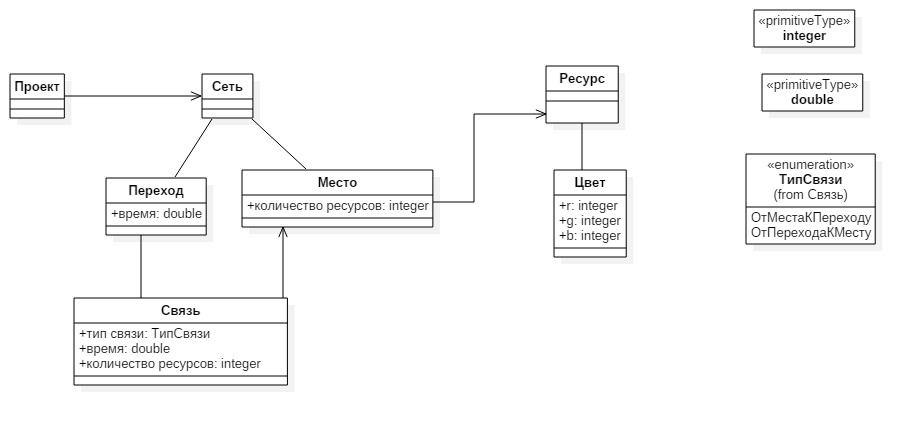
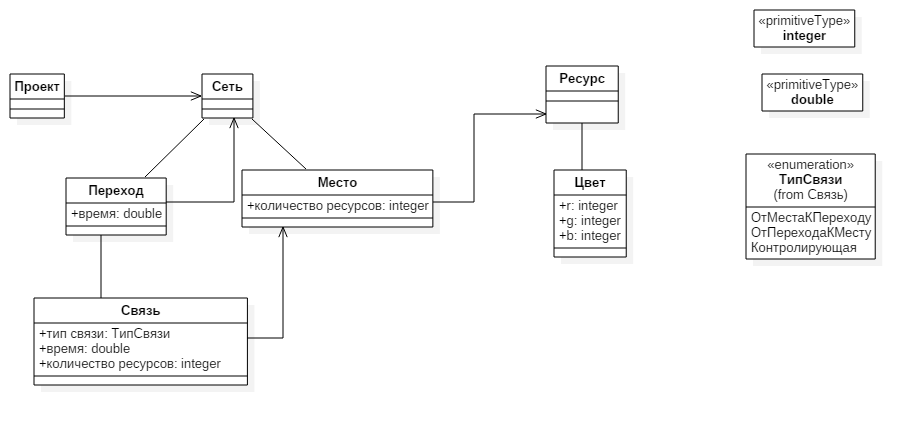
control connection added, some typos fixed

diff --git a/CourseWork/course.tex b/CourseWork/course.tex
@@ -10,7 +10,7 @@
 		Абстрактное синтаксическое дерево (англ. Abstract Syntax Tree) - логическое представление кода в памяти в виде дерева, который описывает иерархию узлов. Эти узлы имеют понятие отношений родитель-ребенок. Кроме того, два узла могут быть соединены друг с другом с явными ссылками, которые идут по всей иерархической структуре.
 		
 		\begin{figure}[ht] 
-			\center
+			\centering
 			\includegraphics [scale=0.27] {AST}
 			\caption{Абстрактное синтаксическое дерево} 
 			\label{img:AST}  
@@ -97,10 +97,10 @@
 		
 
 		
-\chapter{Проектирование}
+\chapter{Проектирование языка}
 	\section{Определение структуры языка}
 		
-		На основе описания ДВС составим модель концепций и их связей и представим её в виде АСД (рис. \ref{img:dcn-AST}). Здесь аналогично рис. \ref{img:AST}, связи без направления обозначают отношение родительских концепции к дочернией, где родитель находится выше дочерней концепции, а направленные связи обозначают ссылку на концепцию.
+		На основе описания ДВС составим модель концепций и их связей и представим её в виде АСД (рис. \ref{img:dcn-AST}). Здесь аналогично рис. \ref{img:AST}, связи без направления обозначают отношение родительских концепции к дочерней, где родитель находится выше дочерней концепции, а направленные связи обозначают ссылку на концепцию.
 		
 		\begin{figure}[ht] 
 			\center
@@ -109,7 +109,7 @@
 			\label{img:dcn-AST}  
 		\end{figure}
 	
-		Как видно из схемы, можно выделить 2 интерфейса. Первый содержит параметр -- время выполнения и называется "исполняемый". Второй содержит параметр -- количество ресурсов и называется "держатель ресурсов".
+		Как видно из схемы, можно выделить 2 интерфейса. Первый содержит параметр -- время выполнения и называется <<исполняемый>>. Второй содержит параметр -- количество ресурсов и называется <<держатель ресурсов>>.
 	
 		Реализацию концепций можно увидеть в прил. \ref{AppendixA}.
 		
@@ -119,11 +119,12 @@
 		\begin{enumerate}
 			\item \textbf{Цвет:} все компоненты цвета должны находиться в диапазоне от 0 до 255 в соответствии с цветовой моделью RGB.
 			\item \textbf{Ресурсы:} все ресурсы должны иметь уникальные имена внутри модели
-			\item \textbf{Держатель ресурсов:} количество ресусов должно быть неотрицательно.
-			\item \textbf{Исполняемый:} время испольнения должно быть неотрицательно.
+			\item \textbf{Держатель ресурсов:} количество ресурсов должно быть неотрицательно.
+			\item \textbf{Исполняемый:} время исполнения должно быть неотрицательно.
 			\item \textbf{Место:} имя места должно быть уникально внутри содержащей его сети.
 			\item \textbf{Сеть:} имя сети должно быть уникально внутри модели.
-			\item \textbf{Связь:} может связывать переход только с местом, описанным в той же сети.
+			\item \textbf{Связь:} может связывать переход только с местом, описанным в той же сети. Если тип связи <<Контролирующая>>, ресурс места должен быть \textit{Nat}.
+			\item \textbf{Переход:} если не связан с сетью-объектом, не может иметь контролирующих связей.
 		\end{enumerate}
 			
 		Реализация ограничений описана в прил. \ref{AppendixB}
@@ -136,7 +137,7 @@
 
 		\begin{figure}[th]
 			\centering
-			\includegraphics[width=0.7\linewidth]{images/test-project/project-tree}
+			\includegraphics[width=0.3\linewidth]{images/test-project/project-tree}
 			\caption{Файлы тестового проекта.}
 			\label{fig:project-tree}
 		\end{figure}
@@ -148,6 +149,7 @@
 		
 		\lstinputlisting[language={Java},caption={Ресурс Car},label={list:Car}]{listings/test/Car.txt}
 		\lstinputlisting[language={Java},caption={Ресурс Bike},label={list:Bike}]{listings/test/Bike.txt}
+		\lstinputlisting[language={Java},caption={Ресурс Nat},label={list:Nat}]{listings/test/Nat.txt}
 		
 		Представление распознаётся, как корректное.
 		
@@ -170,14 +172,37 @@
 				\caption{Возможные значения ссылки на место у связи.}
 				\label{fig:connection-test}
 			\end{figure}
-	
+			\FloatBarrier
+			
 			Также проверим корректность проверки времени. На рис. \ref{fig:time} приведены результаты.
 	
 			\begin{figure}[th]
 				\centering
-				\includegraphics[width=0.7\linewidth]{images/test-project/time}
-				\caption{}
+				\includegraphics[width=0.4\linewidth]{images/test-project/time}
+				\caption{Подсветка некорректного значения времени}
 				\label{fig:time}
+			\end{figure}
+			\FloatBarrier
+			\clearpage
+		
+			Убедимся, что нельзя задать контролирующую связь с местом, ресурс которого отличен от <<Nat>> (рис. \ref{fig:control-connection}).
+			
+			\begin{figure}[th]
+				\centering
+				\includegraphics[width=0.7\linewidth]{images/test-project/control-connection}
+				\caption{Контролирующая связь, связанная с местом, тип которого отличен от <<Nat>>}
+				\label{fig:control-connection}
+			\end{figure}
+			\FloatBarrier
+			\clearpage
+		
+			\subsection{Некорректная реализация перехода}
+			Удостоверимся, что нельзя задать контролирующую связь для перехода, не связанного с сетью-объектом (рис. \ref{fig:control-without-net}).
+			\begin{figure}[th]
+				\centering
+				\includegraphics[width=0.7\linewidth]{images/test-project/control-without-net}
+				\caption{Переход, не связанный с сетью-объектом, но имеющий контролирующий переход.}
+				\label{fig:control-without-net}
 			\end{figure}
 		
 	

diff --git a/CourseWork/theorical_introduction.tex b/CourseWork/theorical_introduction.tex
@@ -1,8 +1,7 @@
 \section{Описание динамических вычислительных сетей}
   \subsection{Сети Петри}
   
-	  Формально сеть Петри определена в~\cite{piterson} и представляет собой двудольный граф с двумя родами вершин: одни вершины называются позициями, другие
-	  называются переходами. 
+	  Формально сеть Петри определена в~\cite{piterson} и представляет собой двудольный граф с двумя родами вершин: одни вершины называются позициями, другие называются переходами. 
 	  Построение моделей систем в виде сетей Петри заключается в следующем:
 	  \begin{enumerate}
 	  	\item 	Моделируемые процессы описываются множеством событий (действий) и условий определяющих возможность наступления этих событий, а также причинно-следственными отношениями, устанавливаемыми на множестве пар "события-условия".
@@ -32,11 +31,11 @@
 	  		\label{img:petri-net}
 	  	\end{figure}
 	  
-	  Сетью Петри принято называть тройку $<G, m_0,\rho>$  , где  $G\equiv<P,T,I,O>$ "--- граф сети Петри, $P$   "--- конечное множество позиций (или мест) сети, $T$ "--- конечное множество переходов сети, $P \cap T = \varnothing$. $I,O:T\rightarrow P^{()}$  "--- функции, задающие комплекты входных и, соответственно, выходных позиций переходов сети (здесь $P^{()}$  "--- множество всевозможных конечных комплектов элементов мно-жества $P$ ). $M \cong P^{()}$ "--- множество всевозможных состояний сети (маркировок).  $m_0 \in M$ "--- начальная маркировка сети, задающая начальное состояние сети, $\rho:T\rightarrow C$ "--- функция раскраски, возможно частичная, где $C$  "--- множество красок.
+	  Сетью Петри принято называть тройку $<G, m_0,\rho>$  , где  $G\equiv<P,T,I,O>$ "--- граф сети Петри, $P$   "--- конечное множество позиций (или мест) сети, $T$ "--- конечное множество переходов сети, $P \cap T = \varnothing$. $I,O:T\rightarrow P^{()}$  "--- функции, задающие комплекты входных и, соответственно, выходных позиций переходов сети (здесь $P^{()}$  "--- множество всевозможных конечных комплектов элементов множества $P$ ). $M \cong P^{()}$ "--- множество всевозможных состояний сети (маркировок).  $m_0 \in M$ "--- начальная маркировка сети, задающая начальное состояние сети, $\rho:T\rightarrow C$ "--- функция раскраски, возможно частичная, где $C$  "--- множество красок.
 	  
 	  Сеть называется ограниченной, если $ (\forall p \in P) (\exists k \in \textit{nat}) (\forall m \in \mu_0) (m(p) \leq k)$, то есть множество достижимых в сети маркировок конечно.
 	  
-	Ограниченная сеть Петри $S$ на множестве позиций $P$, $|P|\in \aleph_0$, может быть представлена следуюзим образом~\cite{falkTheory}:\\ 
+	Ограниченная сеть Петри $S$ на множестве позиций $P$, $|P|\in \aleph_0$, может быть представлена следующим образом~\cite{falkTheory}:\\ 
 	$ S \subseteq P^{()} \times (P^{()} \times P^{()}) $
 	
 	Неограниченная сеть Петри $S$ на  $P$, $|P|\in \aleph_0$:	$ S \subseteq P^{()} \times 2^{P^{()} \times P^{()}} $

diff --git a/common/concl.tex b/common/concl.tex
@@ -3,7 +3,7 @@
 %% 9.2.3 В заключении автореферата диссертации излагают итоги данного исследования, рекомендации и перспективы дальнейшей разработки темы.
 \begin{enumerate}
 	
-	\item Изучиены способы реализации DSL.
+	\item Изучены способы реализации DSL.
 	\item Составлена концептуальная модель языка для реализации динамических вычислительных сетей.
 	\item Реализован язык в системе Meta Programming System.
 	\item Язык протестирован и удовлетворяет всем указанным ограничениям.

diff --git a/CourseWork/appendix.tex b/CourseWork/appendix.tex
@@ -37,6 +37,8 @@
 
 \lstinputlisting[language={Java},caption={Ограничения сетей},label={list:ConnectionType-const}]{listings/constraints/Net.txt}
 
+\lstinputlisting[language={Java},caption={Ограничения переходов},label={list:ConnectionType-const}]{listings/constraints/Transition.txt}
+
 \chapter{Описания редакторов концепций} \label{AppendixC}
 
 \begin{figure}[ht]

diff --git a/CourseWork/title.tex b/CourseWork/title.tex
@@ -19,7 +19,7 @@
 
 \vspace{0pt plus7fill} %число перед fill = кратность относительно некоторого расстояния fill, кусками которого заполнены пустые места
 \begin{center}%
-	\Large\MakeUppercase{Курсовая работа}
+	\Large\MakeUppercase{Курсовой проект}
 	
 	\large По курсу <<\courseName>>
 	
